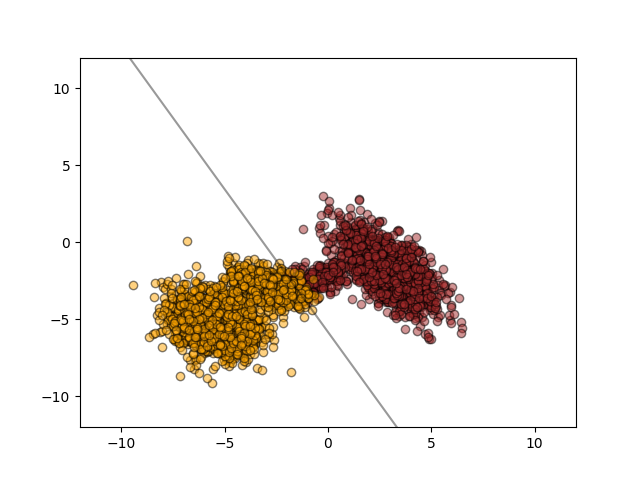
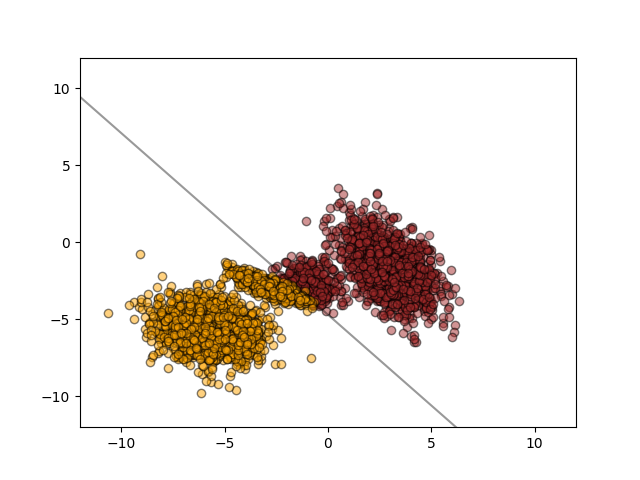
Parte 1 finalizada

diff --git a/src/tc2/adaline.py b/src/tc2/adaline.py
@@ -29,8 +29,9 @@ def EQM(X, y, W):
     return seq / (2 * X.shape[1])
 
 
-(X, y) = carregar_dados("data/DataAV2_O.csv")
+(X, y) = carregar_dados("data/DataAV2_new_2.csv")
 plotar_dados(X, has_bias=False)
+plt.show()
 
 N, p = X.shape
 X = X.T
@@ -75,10 +76,10 @@ while RODADA < MAX_RODADAS:
     plt.clf()
     plotar_dados(X, has_bias=True)
 
-    printar_progresso(RODADA / MAX_RODADAS)
-
     while EPOCH < MAX_EPOCH and abs(EQM1 - EQM2) > PRECISION:
         matriz_confusao = np.zeros((2, 2), dtype=int)
+
+        printar_progresso(RODADA / MAX_RODADAS)
 
         # Fase de treinamento
         EQM1 = EQM(X, y, W)

diff --git a/TODO.md b/TODO.md
@@ -8,19 +8,79 @@
         - ~~Visualização inicial dos dados~~:
             - ~~Gráfico de espalhamento para o conjunto de dados gerado~~.
             - ~~Discutir quais resultados poderão ser obtidos ao utilizar os dois modelos~~.
-    - ~~Desenvolvimento (27%)~~~~.
+    - ~~Desenvolvimento (27%)~~.
         - ~~Organizar o conjunto de dados de forma a obter $X\in\mathbb{R}^{(p+1)\times N}$~~.
         - ~~Divisão do conjunto de dados em $80/20$~~.
         - ~~$100$ rodadas de treinamento (escolha do professor)~~.
         - ~~Definir $\eta$, que se trata do passo de aprendizagem para o modelo `ADALINE`~~.
         - ~~Definir o valor de precisão do `ADALINE`~~.
-    - Resultados (27%).
-        - Computar as seguintes métricas para os resultados de cada modelo ao final das $100$ rodadas:
-            - Acurácia -> média, desvio padrão, maior e menor.
-            - Sensibilidade -> média, desvio padrão, maior e menor.
-            - Especificidade -> média, desvio padrão, maior e menor.
+    - ~~Resultados (27%)~~.
+        - ~~Computar as seguintes métricas para os resultados de cada modelo ao final das $100$ rodadas~~:
+            - ~~Acurácia -> média, desvio padrão, maior e menor~~.
+            - ~~Sensibilidade -> média, desvio padrão, maior e menor~~.
+            - ~~Especificidade -> média, desvio padrão, maior e menor~~.
         - ~~Construir uma matriz de confusão para a pior e melhor rodada~~.
-        - Exibir o hiperplano de separação dos dois modelos para a pior e melhor rodada.
+        - ~~Exibir o hiperplano de separação dos dois modelos para a pior e melhor rodada~~.
+    - Referências (5%).
+    - ~~Implementações (5%)~~.
+        - ~~Implementar o modelo `perceptron`~~.
+        - ~~Implementar o modelo `ADALINE`~~.
+
+<br>
+
+2. Segunda etapa: $20$ classes, onde cada classe é referente a uma pessoa. É um problema de reconhecimento facial. O modelo implementado para solucionar este problema é `perceptron de múltiplas camadas (MLP)`.
+
+    - Implementar o modelo `MLP`.
+    - Realizar a normalização dos dados com base no método min-max (?).
+    - Organizar o conjunto de dados de forma a obter $X\in\mathbb{R}^{(p+1)\times N}$.
+    - Definir $\eta$, que se trata do passo de aprendizagem para ambos os modelos.
+    - Para o modelo `MLP`:
+        - Fazer uma discussão inicial sobre underfitting e overfitting.
+        - Realizar um projeto de uma rede com poucos neurônios na camada oculta:
+            - Computar valores de acurácia.
+            - Computar matrizes de confusão.
+        - Aumentar os neurônios e/ou camadas ocultas.
+        - Identificar o overfitting:
+            - Produzir duas matrizes de confusão para expressar os resultados.
+        - Validar o modelo utilizando uma topologia da sua escolha:
+            - Não deve produzir nem overfitting bem como underfitting.
+            - Escolher com base nas instruções do professor (?).
+    - $20$ rodadas de treinamento (escolha arbitrária).
+    - Computar as seguintes métricas para os resultados de cada modelo ao final das $20$ rodadas:
+        - Quantidade média de épocas para que os modelos atinjam convergência (?).
+        - Acurácia -> média, desvio padrão, maior e menor.
+        - Sensibilidade -> média, desvio padrão, maior e menor.
+        - Especificidade -> média, desvio padrão, maior e menor.
+    - Construir uma matriz de confusão para a pior e melhor rodada.
+    - Projetar uma rede `MLP` que:
+        - Seja superdimensionada.
+        - Identifique o acontecimento de overfitting.
+        - Faça uma parada antecipada ao identificar overfitting.
+    - Realizar discussões se essa arquitetura obteve resultados melhores ou piores com relação às topologias anteriores e a rede `RBF`.
+
+# Trabalho computacional 2 (AV2)
+
+1. Primeira etapa: problema de classificação binária com dados sintetizados aleatoriamente com a ferramenta `GerarDados_Parte1.py` que gerará dados com duas características $(X)$ e a primeira metade classificada como $1$, e a outra metade classificada como $-1$ $(Y)$. Os modelos implementados e utilizados para solucionar o problema de classificação são o `perceptron` e o `ADALINE`.
+
+    - ~~Título (1%)~~.
+    - ~~Resumo (15%)~~.
+    - ~~Introdução (20%)~~.
+        - ~~Visualização inicial dos dados~~:
+            - ~~Gráfico de espalhamento para o conjunto de dados gerado~~.
+            - ~~Discutir quais resultados poderão ser obtidos ao utilizar os dois modelos~~.
+    - ~~Desenvolvimento (27%)~~.
+        - ~~Organizar o conjunto de dados de forma a obter $X\in\mathbb{R}^{(p+1)\times N}$~~.
+        - ~~Divisão do conjunto de dados em $80/20$~~.
+        - ~~$100$ rodadas de treinamento (escolha do professor)~~.
+        - ~~Definir $\eta$, que se trata do passo de aprendizagem para o modelo `ADALINE`~~.
+        - ~~Definir o valor de precisão do `ADALINE`~~.
+    - ~~Resultados (27%)~~.
+        - ~~Computar as seguintes métricas para os resultados de cada modelo ao final das $100$ rodadas~~:
+            - ~~Acurácia -> média, desvio padrão, maior e menor~~.
+            - ~~Sensibilidade -> média, desvio padrão, maior e menor~~.
+            - ~~Especificidade -> média, desvio padrão, maior e menor~~.
+        - ~~Construir uma matriz de confusão para a pior e melhor rodada~~.
+        - ~~Exibir o hiperplano de separação dos dois modelos para a pior e melhor rodada~~.
     - Referências (5%).
     - ~~Implementações (5%)~~.
         - ~~Implementar o modelo `perceptron`~~.
